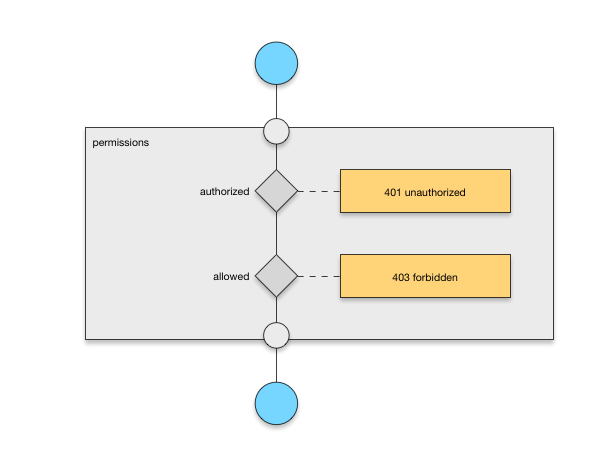
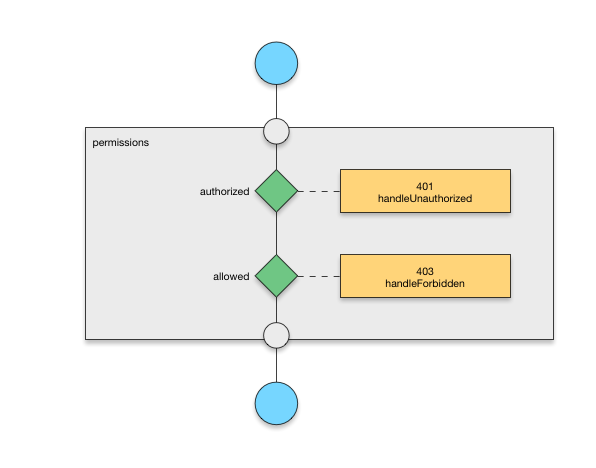
updating machine docs

diff --git a/_static/model/components.put.html b/_static/model/components.put.html
@@ -3,7 +3,7 @@
 	<area shape=rect coords="552,1488,935,1573" href="specifications.responses.html">
 	<area shape=rect coords="552,1318,935,1403" href="specifications.responses.html">
 	<area shape=rect coords="552,1148,935,1233" href="specifications.responses.html">
-	<area shape=rect coords="552,977,935,1062" href="specifications.operations.html">
+	<area shape=rect coords="552,977,935,1062" href="specifications.operation.html">
 	<area shape=rect coords="552,807,935,892" href="specifications.conflict.html">
 	<area shape=rect coords="552,637,935,722" href="specifications.preconditions.html">
 	<area shape=rect coords="552,467,935,552" href="specifications.preconditions.html">

diff --git a/_static/model/components.post.html b/_static/model/components.post.html
@@ -3,7 +3,7 @@
 	<area shape=rect coords="552,1488,935,1573" href="specifications.responses.html">
 	<area shape=rect coords="552,1318,935,1403" href="specifications.responses.html">
 	<area shape=rect coords="552,1148,935,1233" href="specifications.responses.html">
-	<area shape=rect coords="552,977,935,1062" href="specifications.operations.html">
+	<area shape=rect coords="552,977,935,1062" href="specifications.operation.html">
 	<area shape=rect coords="1020,637,1403,722" href="specifications.responses.html">
 	<area shape=rect coords="552,807,935,892" href="specifications.conflict.html">
 	<area shape=rect coords="552,637,935,722" href="specifications.preconditions.html">

diff --git a/_static/model/components.delete.html b/_static/model/components.delete.html
@@ -1,7 +1,7 @@
 <map name="GraffleExport">
 	<area shape=rect coords="1020,467,1403,552" href="specifications.responses.html">
 	<area shape=rect coords="552,807,935,892" href="specifications.responses.html">
-	<area shape=rect coords="552,637,935,722" href="specifications.operations.html">
+	<area shape=rect coords="552,637,935,722" href="specifications.operation.html">
 	<area shape=rect coords="552,467,935,552" href="specifications.preconditions.html">
 	<area shape=rect coords="552,297,935,382" href="specifications.preconditions.html">
 	<area shape=rect coords="1020,297,1403,382" href="specifications.responses.html">

diff --git a/_static/model/specifications.assertions.html b/_static/model/specifications.assertions.html
@@ -1,5 +1,5 @@
 <map name="GraffleExport">
-	<area shape=circle coords="276,403,21" href="components.core.html">
+	<area shape=circle coords="276,488,21" href="components.core.html">
 	<area shape=circle coords="276,63,21" href="components.core.html">
 </map>
 <img border=0 src="specifications.assertions.png" usemap="#GraffleExport">

diff --git a/_static/model/specifications.operation.html b/_static/model/specifications.operation.html
@@ -2,4 +2,4 @@
 	<area shape=circle coords="276,403,21" href="components.core.html">
 	<area shape=circle coords="276,63,21" href="components.core.html">
 </map>
-<img border=0 src="specifications.operations.png" usemap="#GraffleExport">
+<img border=0 src="specifications.operation.png" usemap="#GraffleExport">

diff --git a/reference/machines/http/model.rst b/reference/machines/http/model.rst
@@ -1,24 +1,40 @@
 Model
 =====
 
-.. important::
-
-   This documentation is currently in progress. While it may be useful, it is likely to undergo change and improvement. Please check regularly. Documentation updates are also announced on the `Freya Twitter feed <https://twitter.com/freyafs>`_ -- follow Freya there for up to the minute information on changes to this documentation, and other Freya news.
-
 The HTTP model is built using a modular approach using a pattern implemented in the underlying `Hephaestus <https://xyncro.tech/hephasestus>`_ machine library. The Hephaestus library allows for powerful approaches to composing machines, which is out of scope for Freya documentation, but drives a useful modularity in terms of the HTTP model.
 
-Elements
---------
-
-In the :doc:`overview`, the terminology of Decisions and Handlers was confirmed, and these are visualised in the interactive diagram of the HTTP model. The composition elements are informative in terms of grouping and structure, but the decisions and handlers are the key elements of the model.
-
-Decisions are represented as diamonds, where the True path is represented by a solid line, and the False path by a dashed line. Handlers are represented by boxes, showing the HTTP Status and Reason associated with the handler.
+This modularity will be immediately visible in the diagrams of the HTTP machine, and reflected in the documentation around configuration of :doc:`configuration/decisions`.
 
 Diagrams
 --------
 
-Clickable HTML image maps are available:
+Clickable diagrams are available (these are generated from the Omnigraffle design documents for the HTTP machine and extensions, maintained as part of the `Freya Machines repository <https://github.com/xyncro/freya-machines>`_):
 
 .. raw:: html
          
-   <a href="../../../_static/components.core.html" target="_blank">Diagrams</a>
+   <p>
+     <a href="../../../_static/components.core.html" target="_blank">HTTP Model Diagrams</a>
+   </p>
+
+Visualisation
+-------------
+
+In the :doc:`overview`, the terminology of Decisions and Handlers was defined, and these are visualised in the clickable diagram of the HTTP model. The composition elements are informative in terms of grouping and structure, but the decisions and handlers are the key elements of the model. The naming of these elements is identical to the configuration syntax that may be used in the computation expression, allowing the diagrams to be used as a direct reference along with the detailed reference on each configuration option.
+
+Decisions
+^^^^^^^^^
+
+Decisions are represented as diamonds, with one ``true`` outcome and one ``false`` outcome. The true outcome is represented by a solid line, and the false outcome by a dashed line.
+
+* **Decisions which may be configured directly** as part of the HTTP machine are coloured green.
+* **Decisions which may be influenced through configuration** but not configured directly are coloured blue.
+* **Decisions which may not be configured** are coloured grey.
+
+There is a full reference for the HTTP machine :doc:`configuration/decisions`, as well as a full reference for the :doc:`configuration/properties` which may be configured to influence decisions which are not configured directly.
+
+Handlers
+^^^^^^^^
+  
+Handlers are represented by boxes, showing the HTTP Staus Code associated with the handler by default. Colour is used to represent the semantic meaning of the HTTP results returned -- green for 2xx, yellow for 3xx, orange for 4xx and red for 5xx.
+
+There is a full reference for the HTTP machine :doc:`configuration/handlers`.
